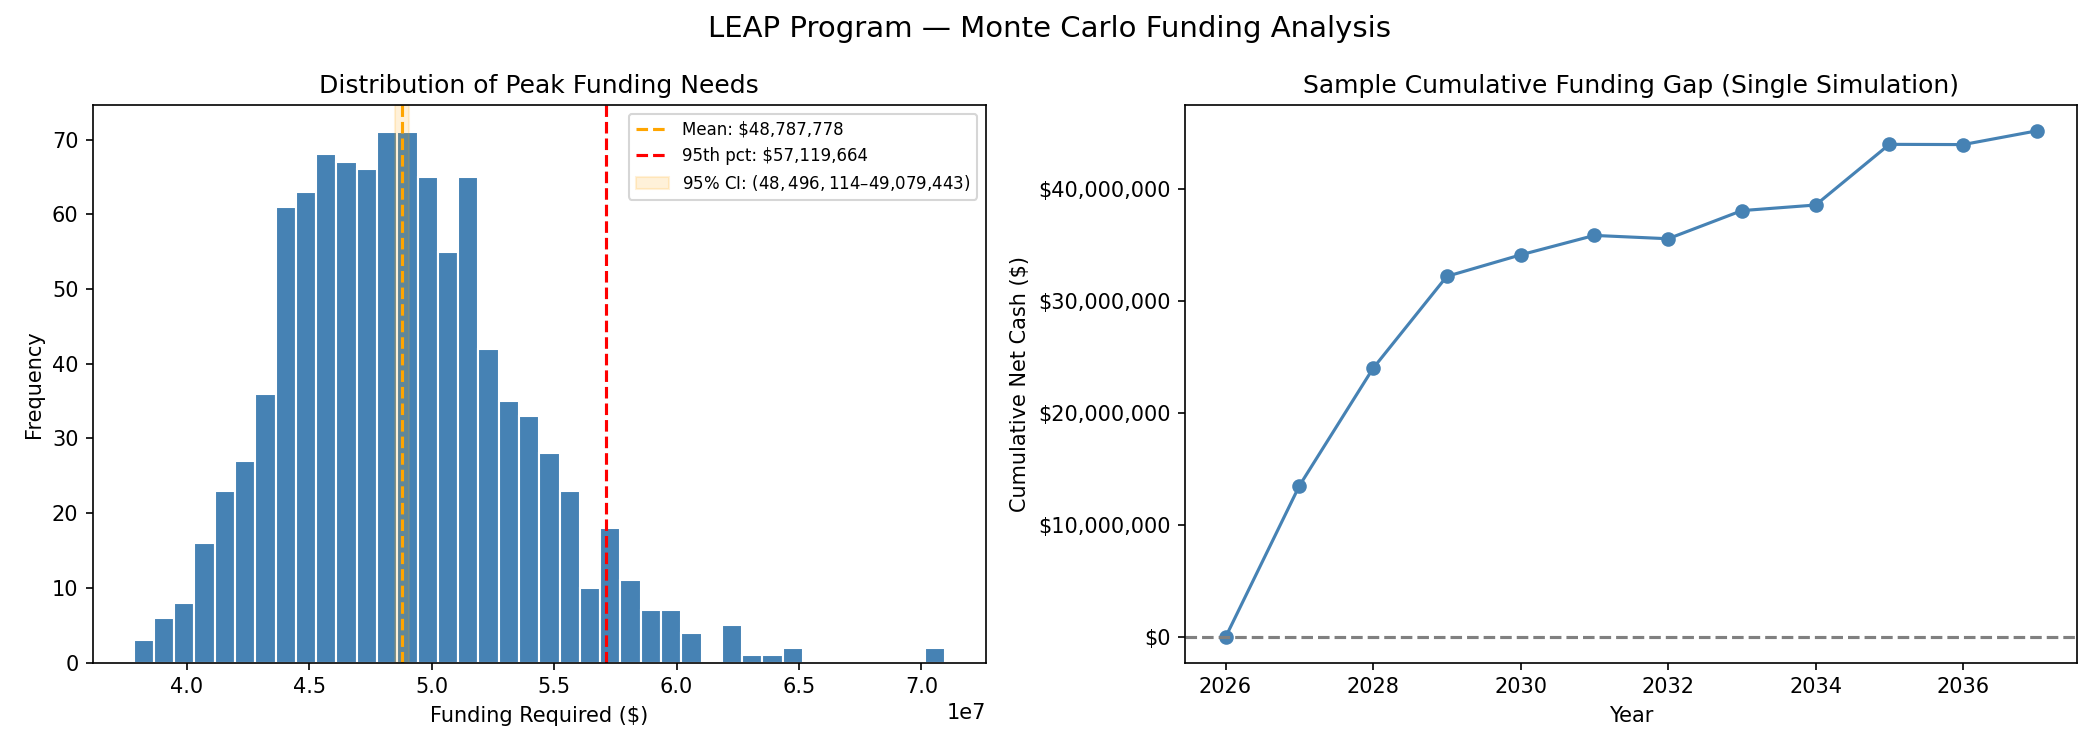
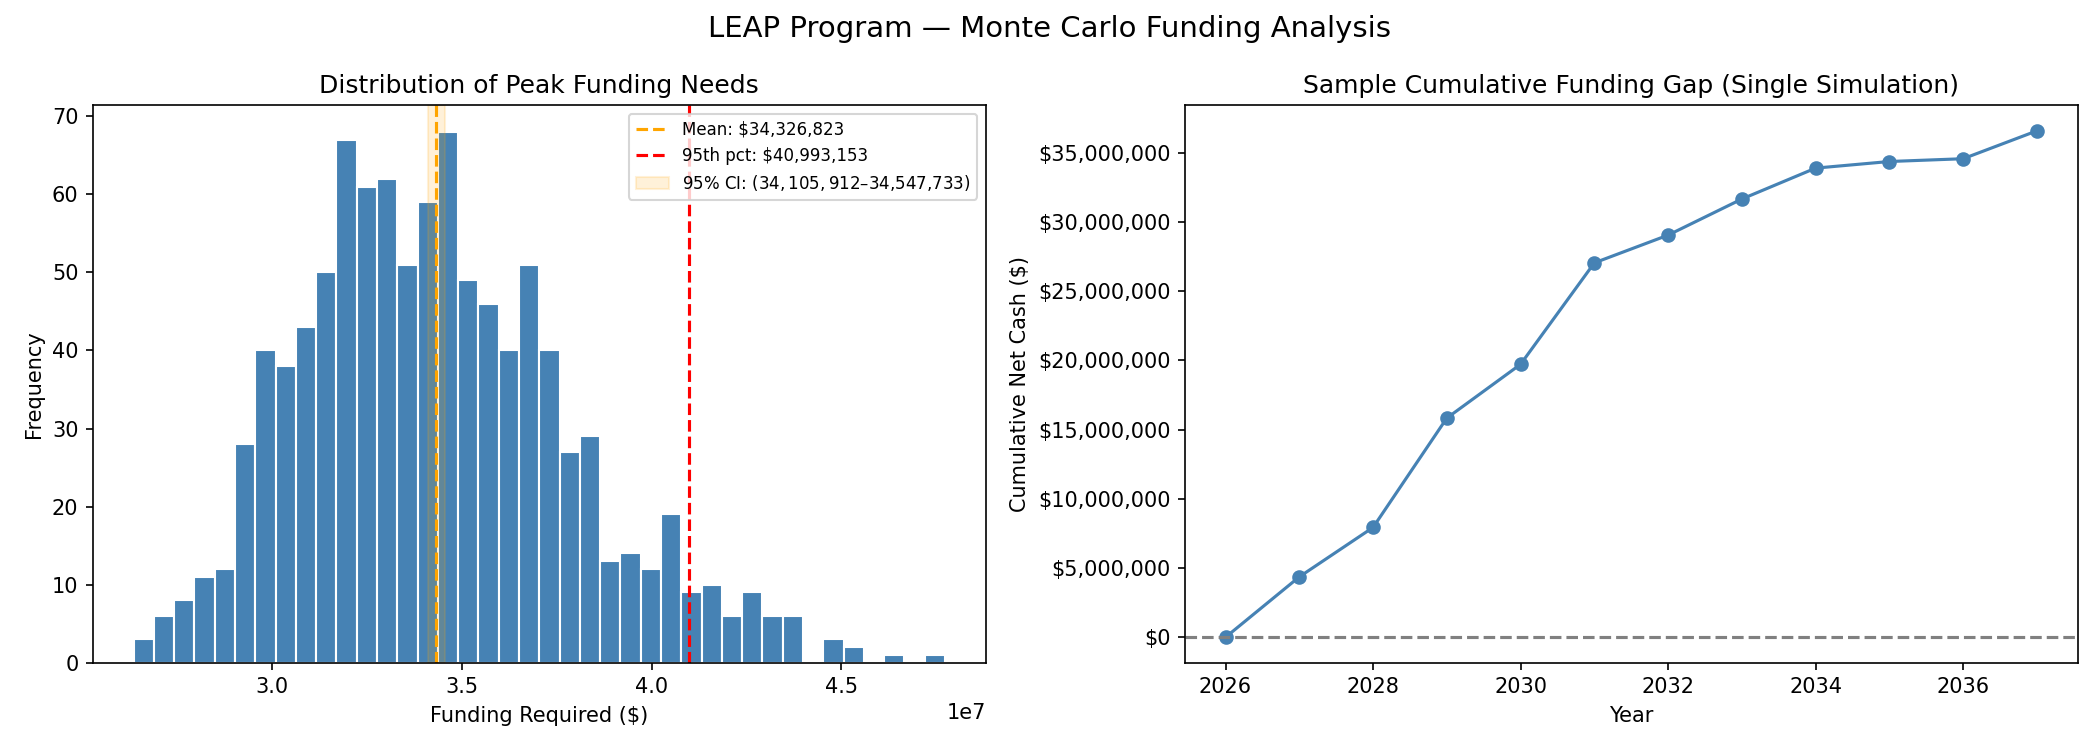
added .7 multiplier into every trial

diff --git a/src/monte_carlo.py b/src/monte_carlo.py
@@ -41,6 +41,10 @@ inflation_std  = 0.0394
 p_weather_event   = 0.002
 weather_cost_mult = 1.15    # costs run ~15% higher in a weather year
 
+# Participation — only ~70% of scheduled homes actually follow through
+participate_mean = 0.70
+participate_std  = 0.05     # year-to-year variability in uptake
+
 
 # -------------------------------------------------------
 # Build replacement schedule
@@ -66,8 +70,6 @@ def single_simulation():
     inflows  = np.zeros(N_YEARS)
 
     # Rebuild schedule each simulation with stochastic decay
-    # 10% fewer homes helped each year from the remaining pool
-    # Homes helped each year = drop between consecutive counts (the difference)
     decays   = np.random.normal(decay_mean, decay_std, size=N_YEARS)
     decays   = np.clip(decays, 0, 1)
     counts   = np.zeros(N_YEARS)
@@ -81,7 +83,12 @@ def single_simulation():
     schedule = np.round(differences).astype(int)
 
     for t in range(N_YEARS):
-        n_homes = schedule[t]
+        # Draw a participation rate for this year (stochastic, mean 70%)
+        p_participate = np.random.normal(participate_mean, participate_std)
+        p_participate = np.clip(p_participate, 0, 1)
+
+        # Only a binomial draw of scheduled homes actually follow through
+        n_homes = np.random.binomial(schedule[t], p_participate)
 
         if n_homes == 0:
             continue
@@ -152,14 +159,18 @@ def grant_baseline():
     for t in range(1, N_YEARS):
         counts[t] = counts[t-1] * (1 - decays[t])
 
-    # Homes helped = differences between consecutive years (homes that drop out)
     differences = np.zeros(N_YEARS)
     for t in range(1, N_YEARS):
         differences[t] = counts[t-1] - counts[t]
     n_helped = np.round(differences).astype(int)
 
     for t in range(N_YEARS):
-        n_homes = n_helped[t]
+        # Draw a participation rate for this year (stochastic, mean 70%)
+        p_participate = np.random.normal(participate_mean, participate_std)
+        p_participate = np.clip(p_participate, 0, 1)
+
+        # Only a binomial draw of scheduled homes actually follow through
+        n_homes = np.random.binomial(n_helped[t], p_participate)
 
         if n_homes == 0:
             continue
@@ -221,6 +232,7 @@ if __name__ == "__main__":
     print(f"Total homes in pool    : {HOMES:,} (all replaced exactly once)")
     print(f"Schedule               : front-loaded, -10% per year (2026→2037)")
     print(f"Homes per year         : {SCHEDULE[0]:,} (2026) → {SCHEDULE[-1]:,} (2037)")
+    print(f"Participation rate     : {participate_mean*100:.0f}% mean (±{participate_std*100:.0f}% std, stochastic per year)")
     print("Running Monte Carlo simulation...")
 
     mean_funding, p95_funding, ci, results, cumulative_curve = monte_carlo(n_sim=1000)
